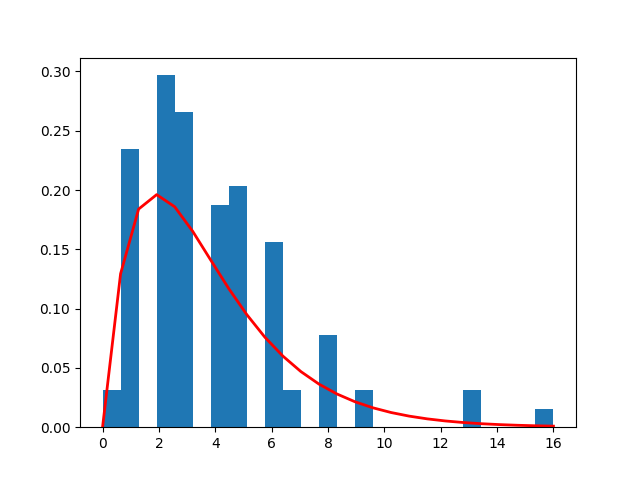
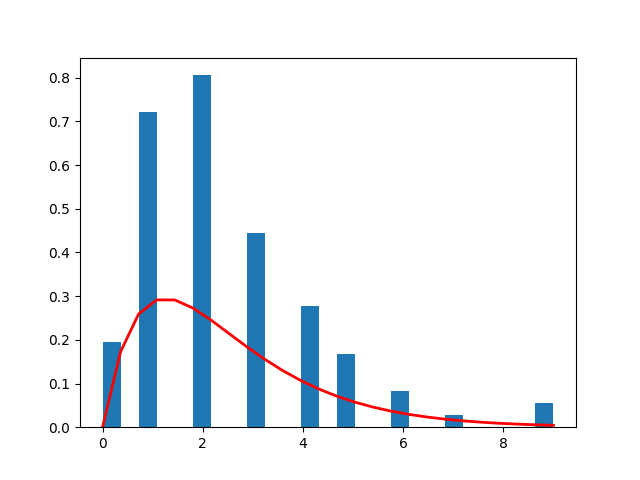
Experiment one extracted to the ExperimentExecutor class

diff --git a/experiment_executor.py b/experiment_executor.py
@@ -13,7 +13,6 @@ from simulator.shard_allocator import diff_list
 from simulator.shard_allocator import shard_allocator
 from simulator.simulator import simulator
 
-num_of_shards = 0
 CLOUD_LOAD_LEVEL = "cloud_load_lvl"
 LOAD_RATIO = "load_ratio"
 SHARDS_PER_NODE_RATIO = "shards_per_node_ratio"
@@ -28,21 +27,63 @@ class ExperimentExecutor:
         self.scale = 0
         self.parallel_requests = 5
         self.num_of_nodes = 0
-        self.experiments = [1, 2, 3]
+        self.experiments = ['1', '2', '3']
         self.algorithms = ["random", "sequential", "SALP"]
         self.load_vectors = []
 
-    def manualConfig(self):
-        self.experiments = [int(input("Which experiment?:"))]
-        self.algorithms = [str(input("Which allocation algorithm? (random/sequential/SALP):"))]
+    def print(self):
+        print("Shards: " + str(self.num_of_shards))
+        print("Nodes: " + str(self.num_of_nodes))
+        print("Period: " + str(self.period))
+        print("Shape: " + str(self.shape))
+
+    def manual_config(self):
+        experiment = str(input("Which experiment?:"))
+        if experiment == "all":
+            experiment = ["1", "2", "3"]
+        else:
+            experiment = [experiment]
+        self.experiments = experiment
+
+        algorithm = str(input("Which allocation algorithm? (random/sequential/SALP):"))
+
+        if algorithm == "all":
+            algorithm = ["random", "sequential", "SALP"]
+        else:
+            algorithm = [algorithm]
+        self.algorithms = algorithm
+
+        self.num_of_shards = int(input("Num of shards:"))
+        self.num_of_samples = 100
+        self.period = 5.0
+        self.shape = 2.0
+        self.scale = self.num_of_shards / 16.0
+        self.parallel_requests = 5
+        self.num_of_nodes = 1
+
+        return self
 
     def add_load_vectors(self, load_vectors):
         self.load_vectors = load_vectors
+        return self
+
+    def run_experiments(self):
+        for experiment in self.experiments:
+            print(experiment)
+            self.experiment_runner().get(experiment)
+
+    def experiment_runner(self):
+        return {
+            '1': self.experiment_one()
+        }
 
     def experiment_one(self):
         load_vectors_df = pd.DataFrame(self.load_vectors)
         processing_time = sum(load_vectors_df.sum(axis=1))
         periods_in_vector = load_vectors_df.shape[1]
+
+        print(periods_in_vector)
+        print(self.num_of_nodes)
 
         min_parallel_requests = round(processing_time / (periods_in_vector * self.num_of_nodes * 0.9))
         max_parallel_requests = round(processing_time / (periods_in_vector * self.num_of_nodes * 0.1))
@@ -54,8 +95,8 @@ class ExperimentExecutor:
             for algorithm in self.algorithms:
                 cloud_load_lvl = processing_time / (periods_in_vector * self.num_of_nodes * parallel_requests)
 
-                nodes_detail_df = shard_allocation(self.num_of_nodes, algorithm)
-                imbalance_df = imbalance_df.append(calculate_imbalance_level(algorithm, self.num_of_nodes, load_vectors, nodes_detail_df,
+                nodes_detail_df = shard_allocation(self.num_of_shards, self.num_of_nodes, algorithm)
+                imbalance_df = imbalance_df.append(calculate_imbalance_level(algorithm, self.num_of_nodes, self.load_vectors, nodes_detail_df,
                                                                              cloud_load_lvl=cloud_load_lvl), ignore_index=True)
 
                 requests_completed_df = simulation(parallel_requests, self.period, self.num_of_nodes, algorithm)
@@ -70,57 +111,22 @@ class ExperimentExecutor:
 
 
 def experiment_executor():
-    experiment = str(input("Which experiment?:"))
-    while experiment not in ['1', '2', '3', 'all']:
-        experiment = str(input("Which experiment? (Enter number from 1 to 3):"))
-
-    algorithms = str(input("Which allocation algorithm?:"))
-    while algorithms not in ["random", "sequential", "SALP", "all"]:
-        algorithms = str(input("Which allocation algorithm? (random/sequential/SALP):"))
-
-    if algorithms == "all":
-        algorithms = ["random", "sequential", "SALP"]
-    else:
-        algorithms = [algorithms]
-
-    global num_of_shards
-    num_of_shards = int(input("Num of shards:"))
-    num_of_samples = 100
-    period = 5.0
-    shape = 2.0
-    scale = num_of_shards / 16.0
-    parallel_requests = 5
-    num_of_nodes = round(num_of_shards / 25)
-
     clear_directory()
 
-    requests, load_vectors = generate_load_vectors(num_of_samples, period, shape, scale)
+    executor = ExperimentExecutor(). \
+        manual_config()
 
-    ExperimentExecutor()
+    executor.print()
 
-    if experiment == '1':
-        experiment_one(num_of_samples, period, num_of_nodes, algorithms, shape, scale, load_vectors)
-    elif experiment == '2':
-        experiment_two(num_of_samples, period, algorithms, num_of_nodes, parallel_requests)
-    elif experiment == '3':
-        experiment_three(algorithms, parallel_requests, period, num_of_samples, shape, scale, load_vectors)
-    elif experiment == 'all':
-        experiment_one(num_of_samples, period, num_of_nodes, algorithms, shape, scale, load_vectors)
-        experiment_three(algorithms, parallel_requests, period, num_of_samples, shape, scale, load_vectors)
-        experiment_two(num_of_samples, period, algorithms, num_of_nodes, parallel_requests)
-    else:
-        print("Wrong experiment!")
+    requests, load_vectors = generate_load_vectors(executor.num_of_shards, executor.num_of_samples, executor.period, executor.shape, executor.scale)
+
+    print(load_vectors)
+
+    executor.add_load_vectors(load_vectors). \
+        run_experiments()
 
 
-def experiment_runner(x):
-    return {
-        '1': experiment_one(num_of_samples, period, num_of_nodes, algorithms, shape, scale, load_vectors),
-        '2': experiment_two(num_of_samples, period, algorithms, num_of_nodes, parallel_requests),
-        '3': experiment_three(algorithms, parallel_requests, period, num_of_samples, shape, scale, load_vectors)
-    }
-
-
-def generate_load_vectors(num_of_samples, period, shape, scale):
+def generate_load_vectors(num_of_shards, num_of_samples, period, shape, scale):
     requests, load_vectors = generator(num_of_shards, num_of_samples, period, shape, scale)
 
     requests.to_csv('./experiments/requests.csv')
@@ -130,36 +136,6 @@ def generate_load_vectors(num_of_samples, period, shape, scale):
         save_load_vector(vector)
 
     return requests, load_vectors
-
-
-def experiment_one(num_of_samples, period, num_of_nodes, algorithms, shape, scale, load_vectors):
-    load_vectors_df = pd.DataFrame(load_vectors)
-    processing_time = sum(load_vectors_df.sum(axis=1))
-    periods_in_vector = load_vectors_df.shape[1]
-
-    min_parallel_requests = round(processing_time / (periods_in_vector * num_of_nodes * 0.9))
-    max_parallel_requests = round(processing_time / (periods_in_vector * num_of_nodes * 0.1))
-
-    delays_df = pd.DataFrame(columns=['algorithm', 'nodes', 'cloud_load_lvl', 'sum_of_delay', 'delay_percentage'])
-    imbalance_df = pd.DataFrame(columns=['algorithm', 'nodes', 'cloud_load_lvl', 'sum_of_imbalance', 'imbalance_percentage'])
-
-    for parallel_requests in range(min_parallel_requests, max_parallel_requests + 1, 1):
-        for algorithm in algorithms:
-            cloud_load_lvl = processing_time / (periods_in_vector * num_of_nodes * parallel_requests)
-
-            nodes_detail_df = shard_allocation(num_of_nodes, algorithm)
-            imbalance_df = imbalance_df.append(calculate_imbalance_level(algorithm, num_of_nodes, load_vectors, nodes_detail_df,
-                                                                         cloud_load_lvl=cloud_load_lvl), ignore_index=True)
-
-            requests_completed_df = simulation(parallel_requests, period, num_of_nodes, algorithm)
-
-            delays_df = delays_df.append(calculate_delays(num_of_samples, period, algorithm, num_of_nodes, requests_completed_df,
-                                                          cloud_load_lvl=cloud_load_lvl), ignore_index=True)
-
-    delays_df.to_csv('./experiments/' + CLOUD_LOAD_LEVEL + '/delays_' + getCurrentDateTime() + '.csv', index=False)
-    imbalance_df.to_csv('./experiments/' + CLOUD_LOAD_LEVEL + '/imbalance_' + getCurrentDateTime() + '.csv', index=False)
-
-    generate_plots(imbalance_df, delays_df, CLOUD_LOAD_LEVEL)
 
 
 def experiment_two(num_of_samples, period, algorithms, nodes, parallel_requests):
@@ -321,7 +297,7 @@ def simulation(parallel_requests, period, nodes, algorithm):
     return requests_completed_df
 
 
-def shard_allocation(nodes, algorithm):
+def shard_allocation(num_of_shards, nodes, algorithm):
     shard_allocated_df = shard_allocator(num_of_shards, nodes, algorithm)
 
     shards_allocated = []
